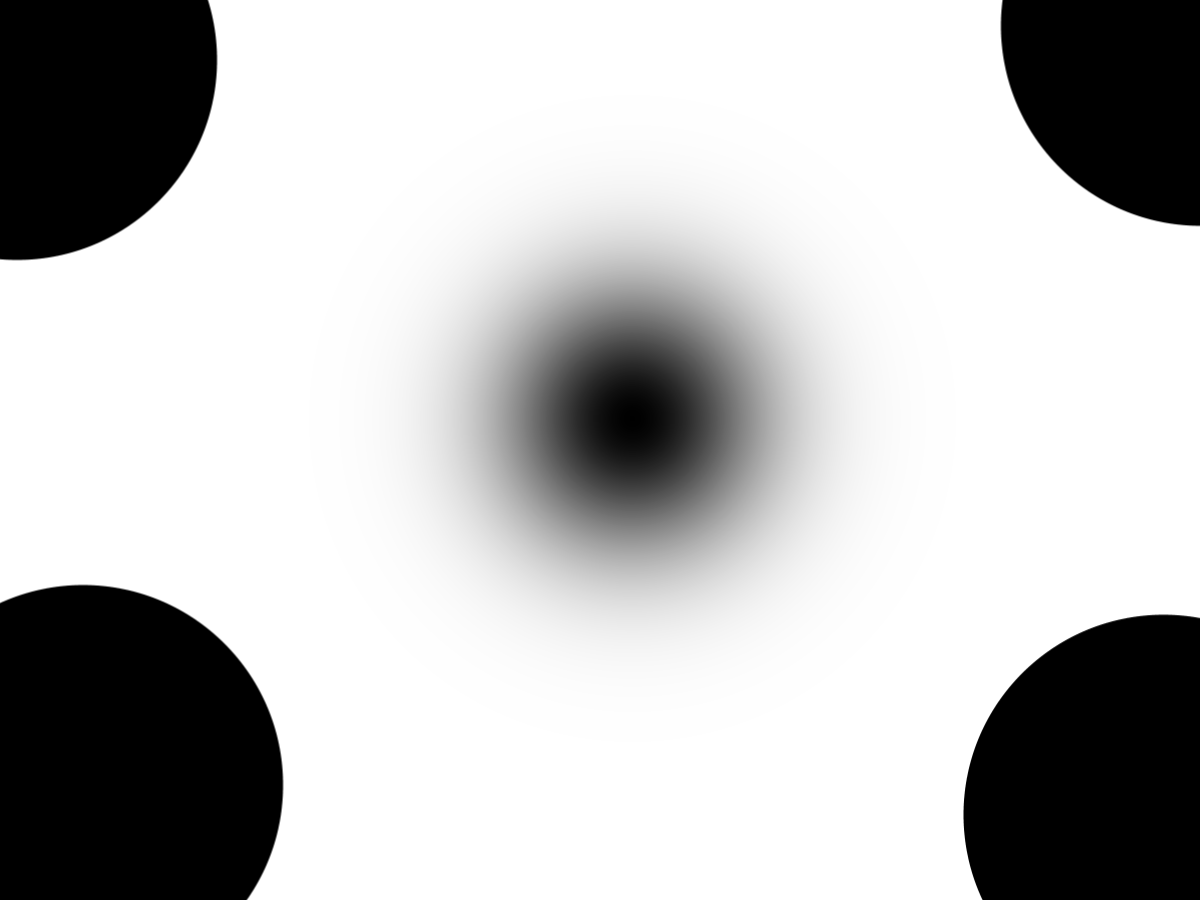
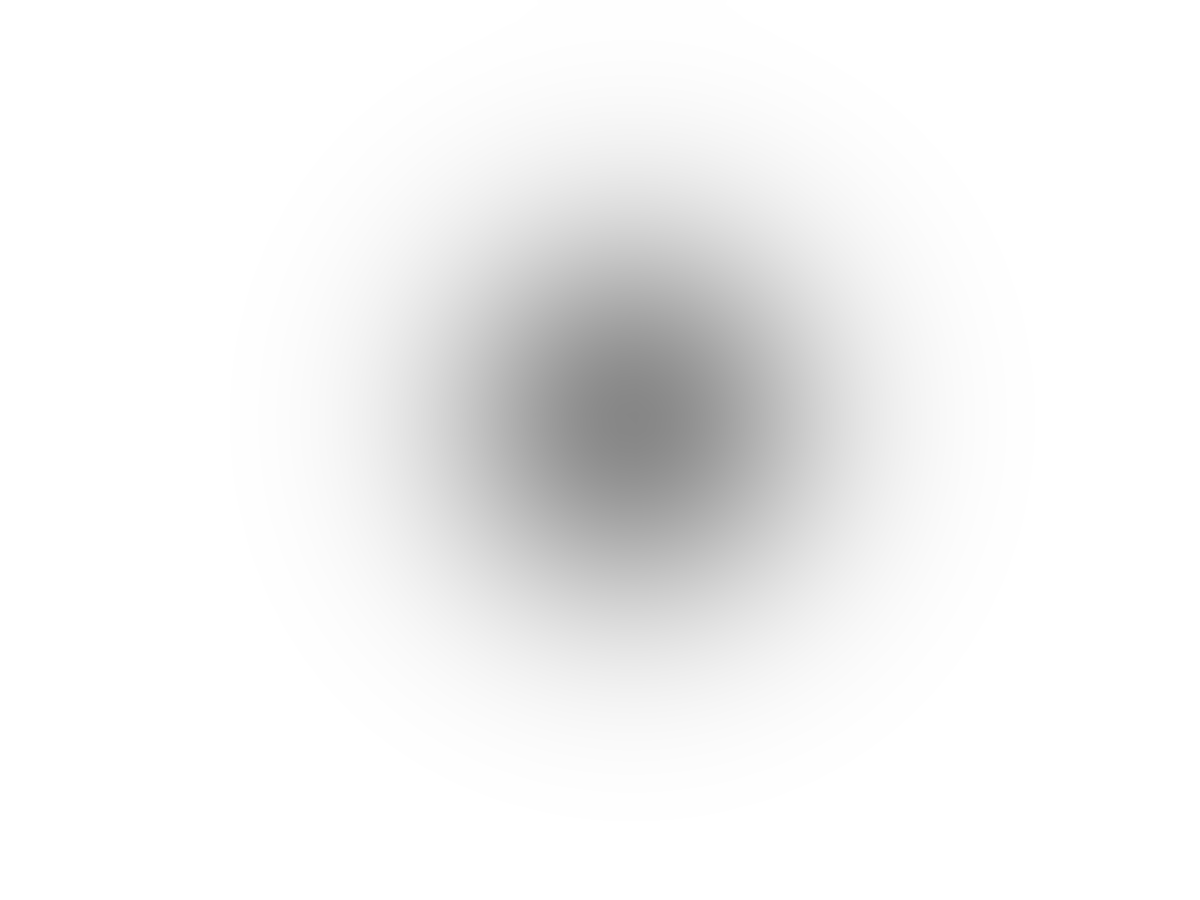
more work on test.png

diff --git a/src/main.ts b/src/main.ts
@@ -104,7 +104,7 @@ function animateDbg(now: DOMHighResTimeStamp) {
 		//_out.rgb = vec3(fetch1());
 		//_out.rgb /= _out.rgb + 1.0;
 		float d = fetch1(tex1, tc) - fetch1(tex1, tc - vec2(0, tsize1.y));
-		_out.rgb = vec3(d);
+		_out.rgb = vec3(d)*50.0;
 	`, {
 		toScreen: true,
 		releaseFirstInputTex: true
